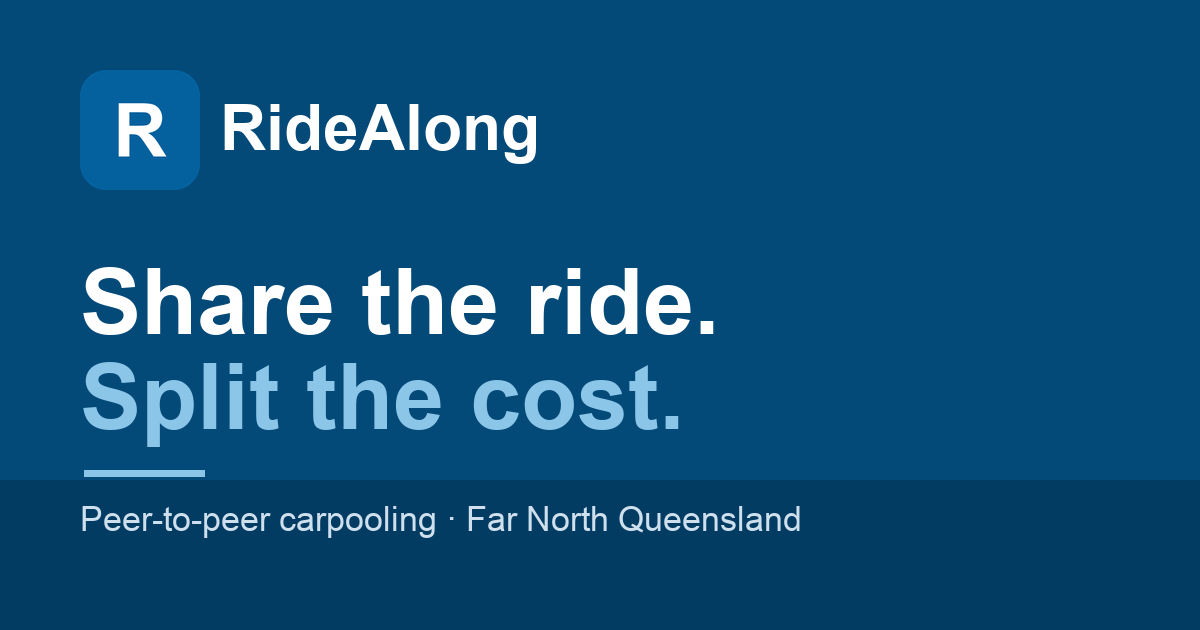
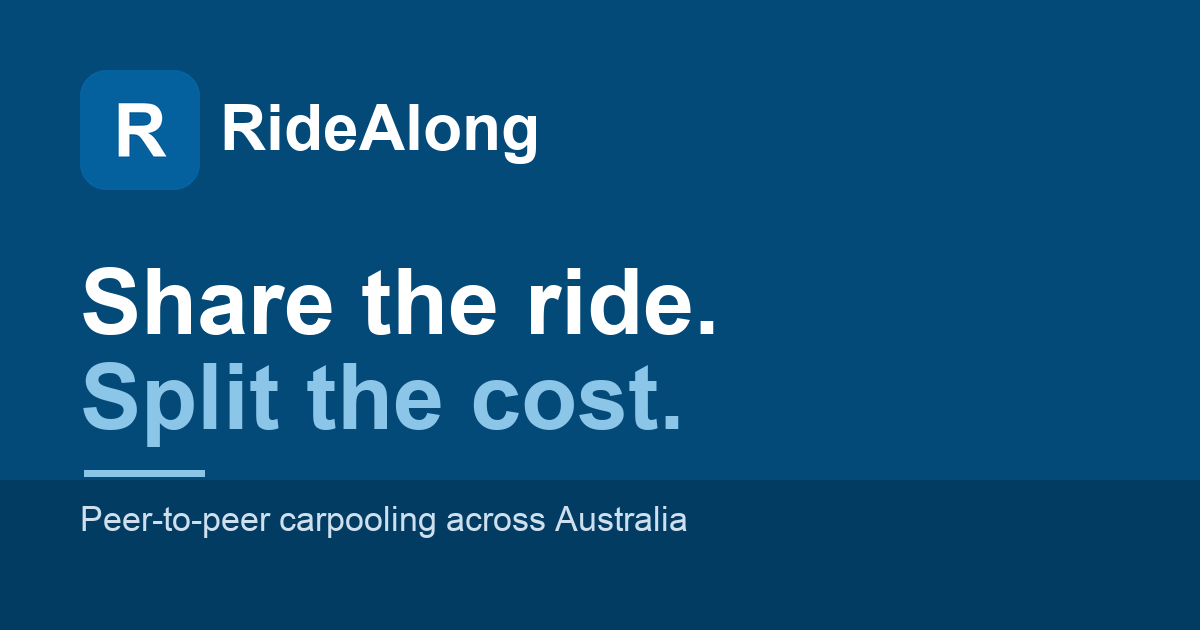
Reposition copy Australia-wide (expansion-ready): titles, meta, OG image and page copy no longer pin to Far North Queensland; legal jurisdiction clause left intact

Changed region(s): [[0.37, 0.7841, 0.6783, 0.8444]]

diff --git a/invite.html b/invite.html
@@ -1,8 +1,8 @@
-<!DOCTYPE html><html lang="en"><head><meta charset="utf-8"><meta name="viewport" content="width=device-width,initial-scale=1"><title>You're invited to RideAlong</title><link rel="stylesheet" href="style.css"><meta name="description" content="You've been invited to RideAlong — peer-to-peer carpooling for Far North Queensland. Open your invite and get the app."><link rel="canonical" href="https://bobbysw1.github.io/ridealong-legal/invite.html"><meta name="theme-color" content="#05619e"><link rel="icon" href="favicon.svg" type="image/svg+xml"><link rel="icon" href="favicon.ico" sizes="any"><link rel="icon" type="image/png" sizes="32x32" href="favicon-32.png"><link rel="icon" type="image/png" sizes="16x16" href="favicon-16.png"><link rel="apple-touch-icon" href="apple-touch-icon.png"><link rel="manifest" href="site.webmanifest"><meta name="twitter:card" content="summary_large_image"><meta property="og:site_name" content="RideAlong"><meta property="og:type" content="website"><meta property="og:locale" content="en_AU"><meta property="og:image" content="https://bobbysw1.github.io/ridealong-legal/og.png"><meta property="og:image:width" content="1200"><meta property="og:image:height" content="630"><meta name="twitter:image" content="https://bobbysw1.github.io/ridealong-legal/og.png"><meta property="og:title" content="You're invited to RideAlong"><meta property="og:description" content="You've been invited to RideAlong — peer-to-peer carpooling for Far North Queensland. Open your invite and get the app."><meta property="og:url" content="https://bobbysw1.github.io/ridealong-legal/invite.html"><meta name="twitter:title" content="You're invited to RideAlong"><meta name="twitter:description" content="You've been invited to RideAlong — peer-to-peer carpooling for Far North Queensland. Open your invite and get the app."></head><body>
+<!DOCTYPE html><html lang="en"><head><meta charset="utf-8"><meta name="viewport" content="width=device-width,initial-scale=1"><title>You're invited to RideAlong</title><link rel="stylesheet" href="style.css"><meta name="description" content="You've been invited to RideAlong — peer-to-peer carpooling across Australia. Open your invite and get the app."><link rel="canonical" href="https://bobbysw1.github.io/ridealong-legal/invite.html"><meta name="theme-color" content="#05619e"><link rel="icon" href="favicon.svg" type="image/svg+xml"><link rel="icon" href="favicon.ico" sizes="any"><link rel="icon" type="image/png" sizes="32x32" href="favicon-32.png"><link rel="icon" type="image/png" sizes="16x16" href="favicon-16.png"><link rel="apple-touch-icon" href="apple-touch-icon.png"><link rel="manifest" href="site.webmanifest"><meta name="twitter:card" content="summary_large_image"><meta property="og:site_name" content="RideAlong"><meta property="og:type" content="website"><meta property="og:locale" content="en_AU"><meta property="og:image" content="https://bobbysw1.github.io/ridealong-legal/og.png"><meta property="og:image:width" content="1200"><meta property="og:image:height" content="630"><meta name="twitter:image" content="https://bobbysw1.github.io/ridealong-legal/og.png"><meta property="og:title" content="You're invited to RideAlong"><meta property="og:description" content="You've been invited to RideAlong — peer-to-peer carpooling across Australia. Open your invite and get the app."><meta property="og:url" content="https://bobbysw1.github.io/ridealong-legal/invite.html"><meta name="twitter:title" content="You're invited to RideAlong"><meta name="twitter:description" content="You've been invited to RideAlong — peer-to-peer carpooling across Australia. Open your invite and get the app."></head><body>
 <header><div class="wrap"><div class="brand">RideAlong</div><nav><a href="index.html">Home</a><a href="privacy.html">Privacy</a><a href="terms.html">Terms</a><a href="support.html">Support</a></nav></div></header>
 <main><div class="card">
 <h1>You've been invited to RideAlong</h1>
-<p class="updated">RideAlong is peer-to-peer carpooling for Far North Queensland. Drivers share the spare seats on trips they're already making, and riders share the cost.</p>
+<p class="updated">RideAlong is peer-to-peer carpooling across Australia. Drivers share the spare seats on trips they're already making, and riders share the cost.</p>
 <p id="codeline" style="display:none;">Your invite code: <strong id="code" style="font-family:ui-monospace,Menlo,monospace;font-size:1.3em;letter-spacing:.06em;"></strong></p>
 <p style="margin:28px 0;">
   <a id="open" class="btn" href="#" style="display:inline-block;padding:14px 22px;border-radius:14px;background:#0f6e56;color:#fff;text-decoration:none;font-weight:600;">Open in RideAlong</a>

diff --git a/index.html b/index.html
@@ -1,4 +1,4 @@
-<!DOCTYPE html><html lang="en"><head><meta charset="utf-8"><meta name="viewport" content="width=device-width,initial-scale=1"><title>RideAlong — Carpooling in Far North Queensland</title><link rel="stylesheet" href="style.css"><meta name="description" content="RideAlong is peer-to-peer carpooling for Far North Queensland — share the spare seats on trips people are already making and split the cost. Policies and support."><link rel="canonical" href="https://bobbysw1.github.io/ridealong-legal/index.html"><meta name="theme-color" content="#05619e"><link rel="icon" href="favicon.svg" type="image/svg+xml"><link rel="icon" href="favicon.ico" sizes="any"><link rel="icon" type="image/png" sizes="32x32" href="favicon-32.png"><link rel="icon" type="image/png" sizes="16x16" href="favicon-16.png"><link rel="apple-touch-icon" href="apple-touch-icon.png"><link rel="manifest" href="site.webmanifest"><meta name="twitter:card" content="summary_large_image"><meta property="og:site_name" content="RideAlong"><meta property="og:type" content="website"><meta property="og:locale" content="en_AU"><meta property="og:image" content="https://bobbysw1.github.io/ridealong-legal/og.png"><meta property="og:image:width" content="1200"><meta property="og:image:height" content="630"><meta name="twitter:image" content="https://bobbysw1.github.io/ridealong-legal/og.png"><meta property="og:title" content="RideAlong — share the ride, split the cost"><meta property="og:description" content="RideAlong is peer-to-peer carpooling for Far North Queensland — share the spare seats on trips people are already making and split the cost. Policies and support."><meta property="og:url" content="https://bobbysw1.github.io/ridealong-legal/index.html"><meta name="twitter:title" content="RideAlong — share the ride, split the cost"><meta name="twitter:description" content="RideAlong is peer-to-peer carpooling for Far North Queensland — share the spare seats on trips people are already making and split the cost. Policies and support."></head><body>
+<!DOCTYPE html><html lang="en"><head><meta charset="utf-8"><meta name="viewport" content="width=device-width,initial-scale=1"><title>RideAlong — Carpooling across Australia</title><link rel="stylesheet" href="style.css"><meta name="description" content="RideAlong is peer-to-peer carpooling across Australia — share the spare seats on trips people are already making and split the cost. Policies and support."><link rel="canonical" href="https://bobbysw1.github.io/ridealong-legal/index.html"><meta name="theme-color" content="#05619e"><link rel="icon" href="favicon.svg" type="image/svg+xml"><link rel="icon" href="favicon.ico" sizes="any"><link rel="icon" type="image/png" sizes="32x32" href="favicon-32.png"><link rel="icon" type="image/png" sizes="16x16" href="favicon-16.png"><link rel="apple-touch-icon" href="apple-touch-icon.png"><link rel="manifest" href="site.webmanifest"><meta name="twitter:card" content="summary_large_image"><meta property="og:site_name" content="RideAlong"><meta property="og:type" content="website"><meta property="og:locale" content="en_AU"><meta property="og:image" content="https://bobbysw1.github.io/ridealong-legal/og.png"><meta property="og:image:width" content="1200"><meta property="og:image:height" content="630"><meta name="twitter:image" content="https://bobbysw1.github.io/ridealong-legal/og.png"><meta property="og:title" content="RideAlong — share the ride, split the cost"><meta property="og:description" content="RideAlong is peer-to-peer carpooling across Australia — share the spare seats on trips people are already making and split the cost. Policies and support."><meta property="og:url" content="https://bobbysw1.github.io/ridealong-legal/index.html"><meta name="twitter:title" content="RideAlong — share the ride, split the cost"><meta name="twitter:description" content="RideAlong is peer-to-peer carpooling across Australia — share the spare seats on trips people are already making and split the cost. Policies and support."></head><body>
 <header><div class="wrap"><div class="brand">RideAlong</div><nav><a href="index.html">Home</a><a href="privacy.html">Privacy</a><a href="terms.html">Terms</a><a href="support.html">Support</a><a href="account-deletion.html">Delete account</a></nav></div></header>
 <main><div class="card">
 <h1>RideAlong</h1>

diff --git a/terms.html b/terms.html
@@ -1,4 +1,4 @@
-<!DOCTYPE html><html lang="en"><head><meta charset="utf-8"><meta name="viewport" content="width=device-width,initial-scale=1"><title>RideAlong Terms of Service</title><link rel="stylesheet" href="style.css"><meta name="description" content="The terms that govern your use of RideAlong, the cost-sharing carpooling app for Far North Queensland."><link rel="canonical" href="https://bobbysw1.github.io/ridealong-legal/terms.html"><meta name="theme-color" content="#05619e"><link rel="icon" href="favicon.svg" type="image/svg+xml"><link rel="icon" href="favicon.ico" sizes="any"><link rel="icon" type="image/png" sizes="32x32" href="favicon-32.png"><link rel="icon" type="image/png" sizes="16x16" href="favicon-16.png"><link rel="apple-touch-icon" href="apple-touch-icon.png"><link rel="manifest" href="site.webmanifest"><meta name="twitter:card" content="summary_large_image"><meta property="og:site_name" content="RideAlong"><meta property="og:type" content="website"><meta property="og:locale" content="en_AU"><meta property="og:image" content="https://bobbysw1.github.io/ridealong-legal/og.png"><meta property="og:image:width" content="1200"><meta property="og:image:height" content="630"><meta name="twitter:image" content="https://bobbysw1.github.io/ridealong-legal/og.png"><meta property="og:title" content="RideAlong Terms of Service"><meta property="og:description" content="The terms that govern your use of RideAlong, the cost-sharing carpooling app for Far North Queensland."><meta property="og:url" content="https://bobbysw1.github.io/ridealong-legal/terms.html"><meta name="twitter:title" content="RideAlong Terms of Service"><meta name="twitter:description" content="The terms that govern your use of RideAlong, the cost-sharing carpooling app for Far North Queensland."></head><body>
+<!DOCTYPE html><html lang="en"><head><meta charset="utf-8"><meta name="viewport" content="width=device-width,initial-scale=1"><title>RideAlong Terms of Service</title><link rel="stylesheet" href="style.css"><meta name="description" content="The terms that govern your use of RideAlong, the cost-sharing carpooling app in Australia."><link rel="canonical" href="https://bobbysw1.github.io/ridealong-legal/terms.html"><meta name="theme-color" content="#05619e"><link rel="icon" href="favicon.svg" type="image/svg+xml"><link rel="icon" href="favicon.ico" sizes="any"><link rel="icon" type="image/png" sizes="32x32" href="favicon-32.png"><link rel="icon" type="image/png" sizes="16x16" href="favicon-16.png"><link rel="apple-touch-icon" href="apple-touch-icon.png"><link rel="manifest" href="site.webmanifest"><meta name="twitter:card" content="summary_large_image"><meta property="og:site_name" content="RideAlong"><meta property="og:type" content="website"><meta property="og:locale" content="en_AU"><meta property="og:image" content="https://bobbysw1.github.io/ridealong-legal/og.png"><meta property="og:image:width" content="1200"><meta property="og:image:height" content="630"><meta name="twitter:image" content="https://bobbysw1.github.io/ridealong-legal/og.png"><meta property="og:title" content="RideAlong Terms of Service"><meta property="og:description" content="The terms that govern your use of RideAlong, the cost-sharing carpooling app in Australia."><meta property="og:url" content="https://bobbysw1.github.io/ridealong-legal/terms.html"><meta name="twitter:title" content="RideAlong Terms of Service"><meta name="twitter:description" content="The terms that govern your use of RideAlong, the cost-sharing carpooling app in Australia."></head><body>
 <header><div class="wrap"><div class="brand">RideAlong</div><nav><a href="index.html">Home</a><a href="privacy.html">Privacy</a><a href="terms.html">Terms</a><a href="support.html">Support</a><a href="account-deletion.html">Delete account</a></nav></div></header>
 <main><div class="card">
 <h1>Terms of Service</h1>

diff --git a/ride.html b/ride.html
@@ -2,7 +2,7 @@
 <header><div class="wrap"><div class="brand">RideAlong</div><nav><a href="index.html">Home</a><a href="privacy.html">Privacy</a><a href="terms.html">Terms</a><a href="support.html">Support</a></nav></div></header>
 <main><div class="card">
 <h1>You've been invited to a ride</h1>
-<p class="updated">RideAlong is peer-to-peer carpooling for Far North Queensland, sharing the cost of trips people are already making.</p>
+<p class="updated">RideAlong is peer-to-peer carpooling across Australia, sharing the cost of trips people are already making.</p>
 <p>Open this trip in the RideAlong app to see the route, driver and price, and to request a seat.</p>
 <p style="margin:28px 0;">
   <a id="open" class="btn" href="#" style="display:inline-block;padding:14px 22px;border-radius:14px;background:#0f6e56;color:#fff;text-decoration:none;font-weight:600;">Open in RideAlong</a>
